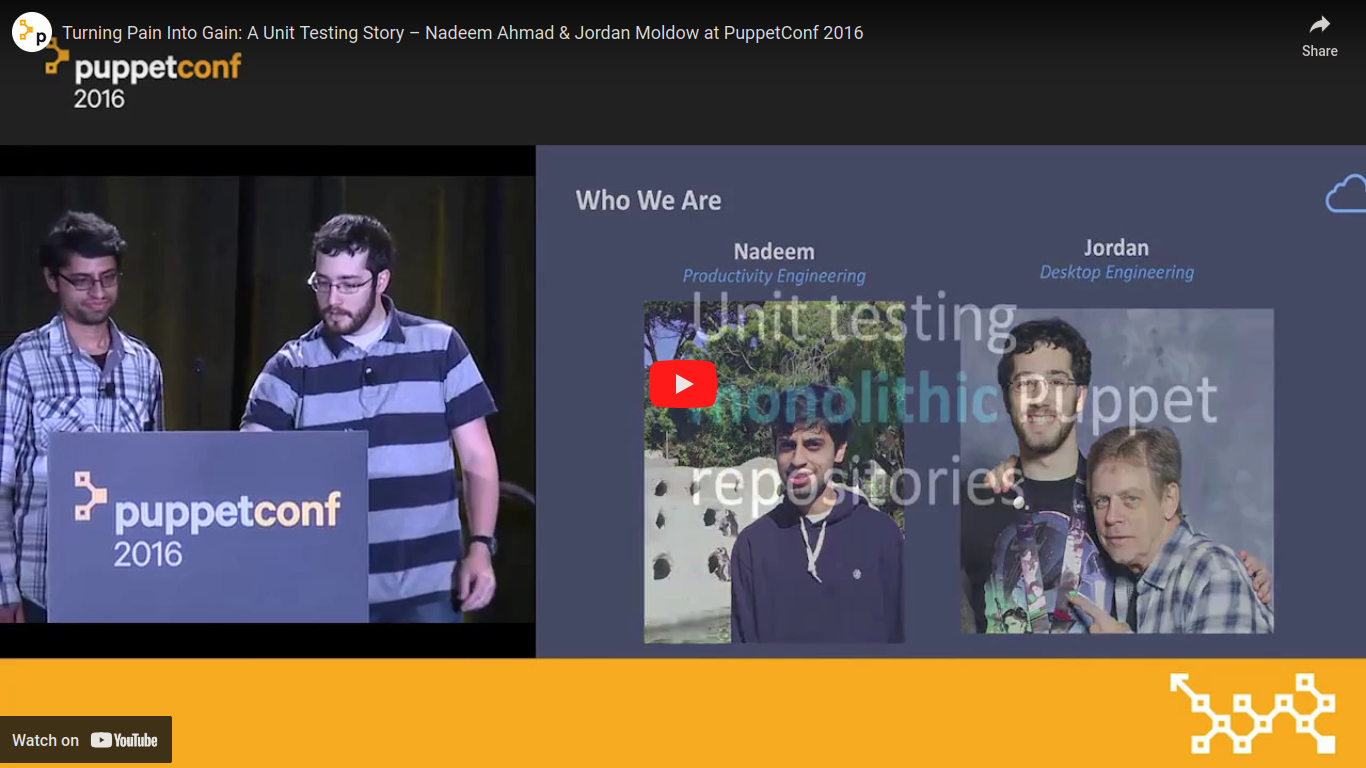
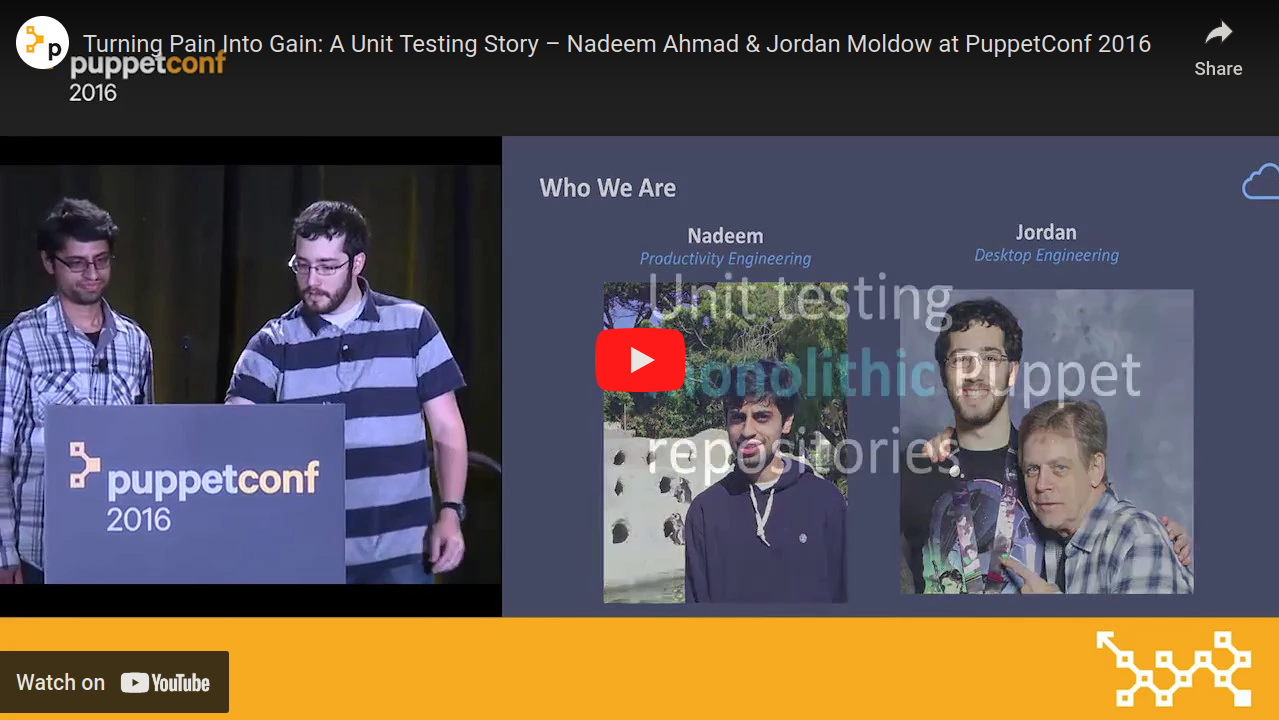
Fix Puppet talk

diff --git a/README.md b/README.md
@@ -112,9 +112,11 @@ Presented at: [PuppetConf - October 2016](#puppetconf---october-2016)
 
 Puppet is integral to Box's infrastructure, serving many purposes. Use of Puppet grew organically, resulting in a large monolith of fragile spaghetti code. When we needed CI, this code was in an untestable state. Out of the box, rspec-puppet didn't work. Rather than continuing to rely only on manual testing or rewriting our code into proper modules, roles, and profiles, we made the unit testing system work with our spaghetti code. Our open-source rspec-puppet extensions enabled us to add coverage for our monolith, and can help others achieve the same. This session covers Box's journey to a fully-featured Puppet CI. We discuss the importance of unit testing, show it's possible to improve testing practices, present solutions to roadblocks we encountered, and share workflows we created.
 
-[![Turning Pain Into Gain - A Puppet Unit Testing Story - YouTube - Recording](assets/images/turning-pain-into-gain---a-puppet-unit-testing-story-youtube-recording.png)](https://www.youtube.com/watch?v=5JT2em4YYIo "Turning Pain Into Gain - A Puppet Unit Testing Story - YouTube - Recording")
-
-[![Turning Pain Into Gain - A Puppet Unit Testing Story - Slides](assets/images/turning-pain-into-gain---a-puppet-unit-testing-story-box-slides.png)](https://app.box.com/s/vu4cyf0s1eoqg1s9xd1se89tx71zcnoy "Turning Pain Into Gain - A Puppet Unit Testing Story - Slides")
+<a href="https://www.youtube.com/watch?v=5JT2em4YYIo" title="Turning Pain Into Gain - A Puppet Unit Testing Story - YouTube - Recording">
+<img src="assets/images/turning-pain-into-gain---a-puppet-unit-testing-story-youtube-recording.png" alt="Turning Pain Into Gain - A Puppet Unit Testing Story - YouTube - Recording" style="width:49%; max-width:49%; max-height:49%; aspect-ratio:16/9; vertical-align:middle; object-fit:scale-down;">
+</a> <a href="https://app.box.com/s/vu4cyf0s1eoqg1s9xd1se89tx71zcnoy" title="Turning Pain Into Gain - A Puppet Unit Testing Story - Slides">
+<img src="assets/images/turning-pain-into-gain---a-puppet-unit-testing-story-box-slides.png" alt="Turning Pain Into Gain - A Puppet Unit Testing Story - Slides" style="width:49%; max-width:49%; max-height:49%; aspect-ratio:1311/700 auto; vertical-align:middle; object-fit:scale-down;">
+</a>
 
 ## Conferences
 
